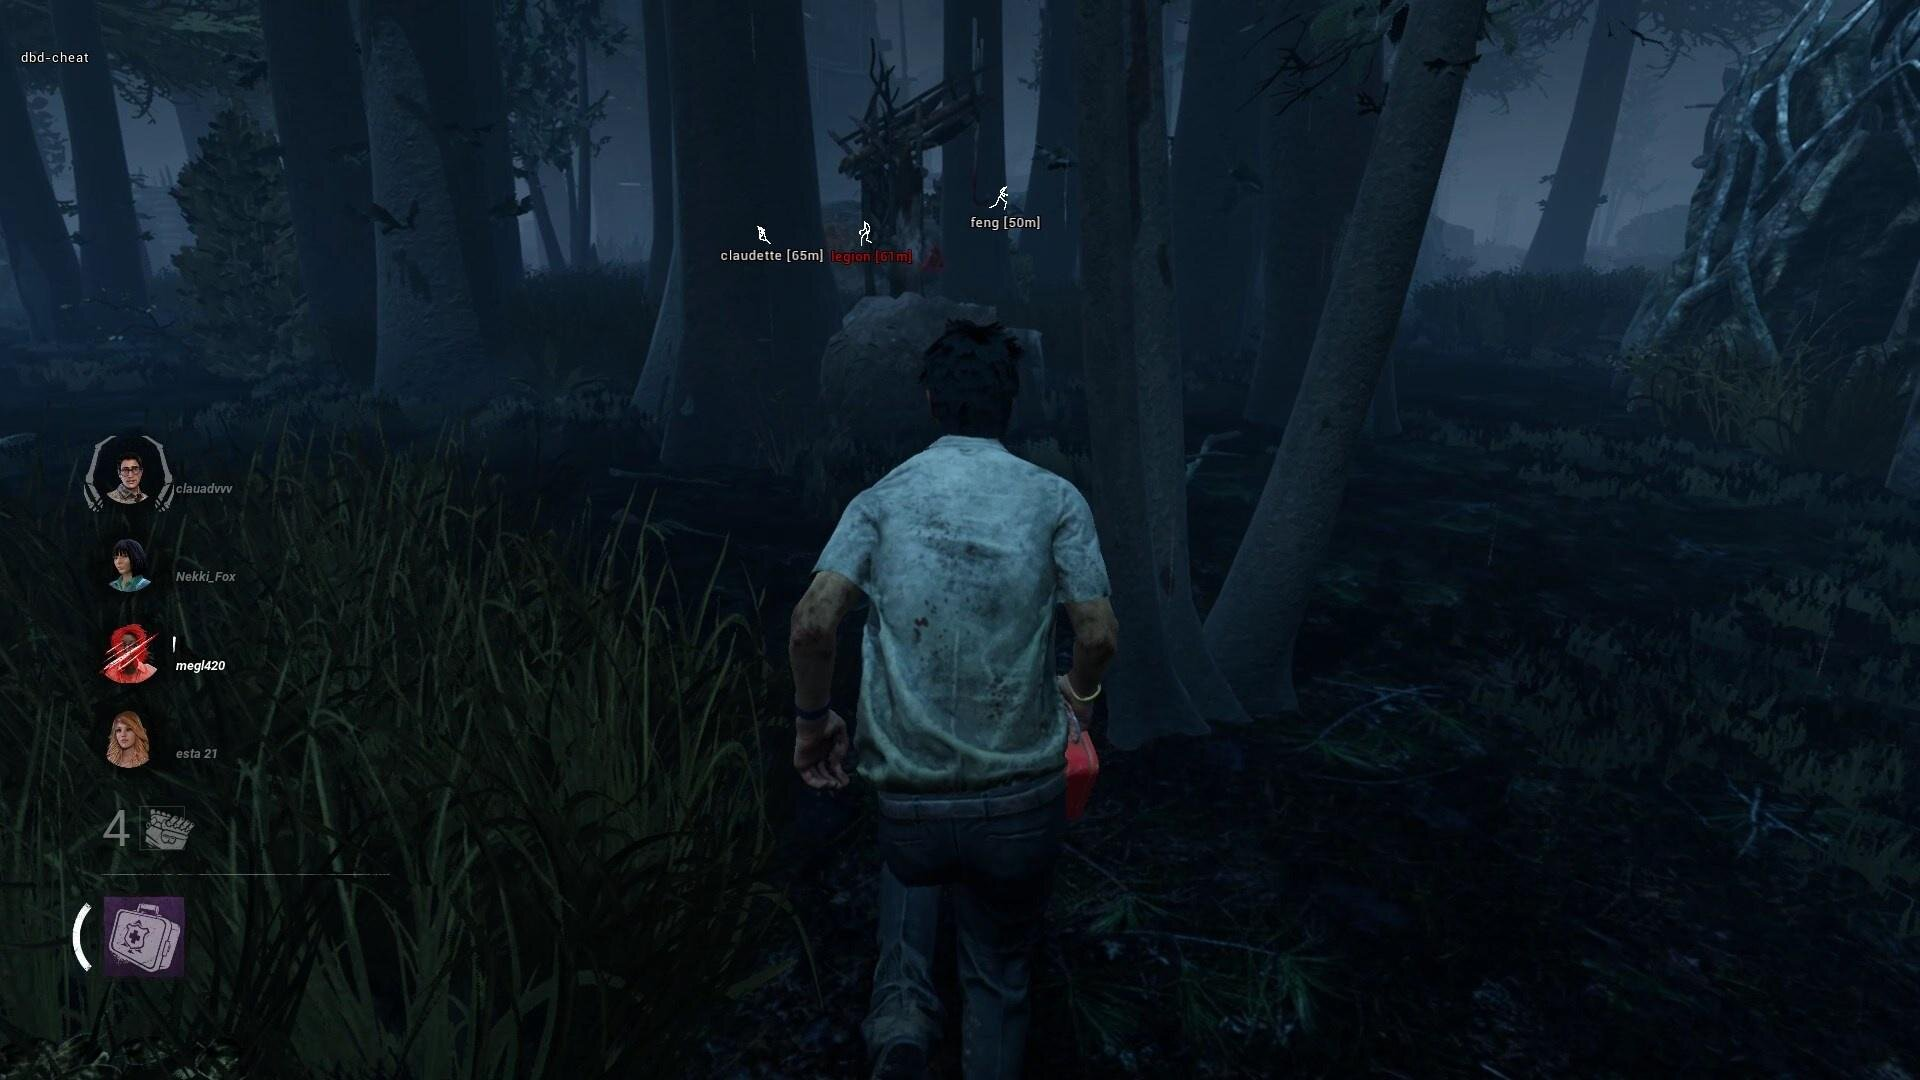
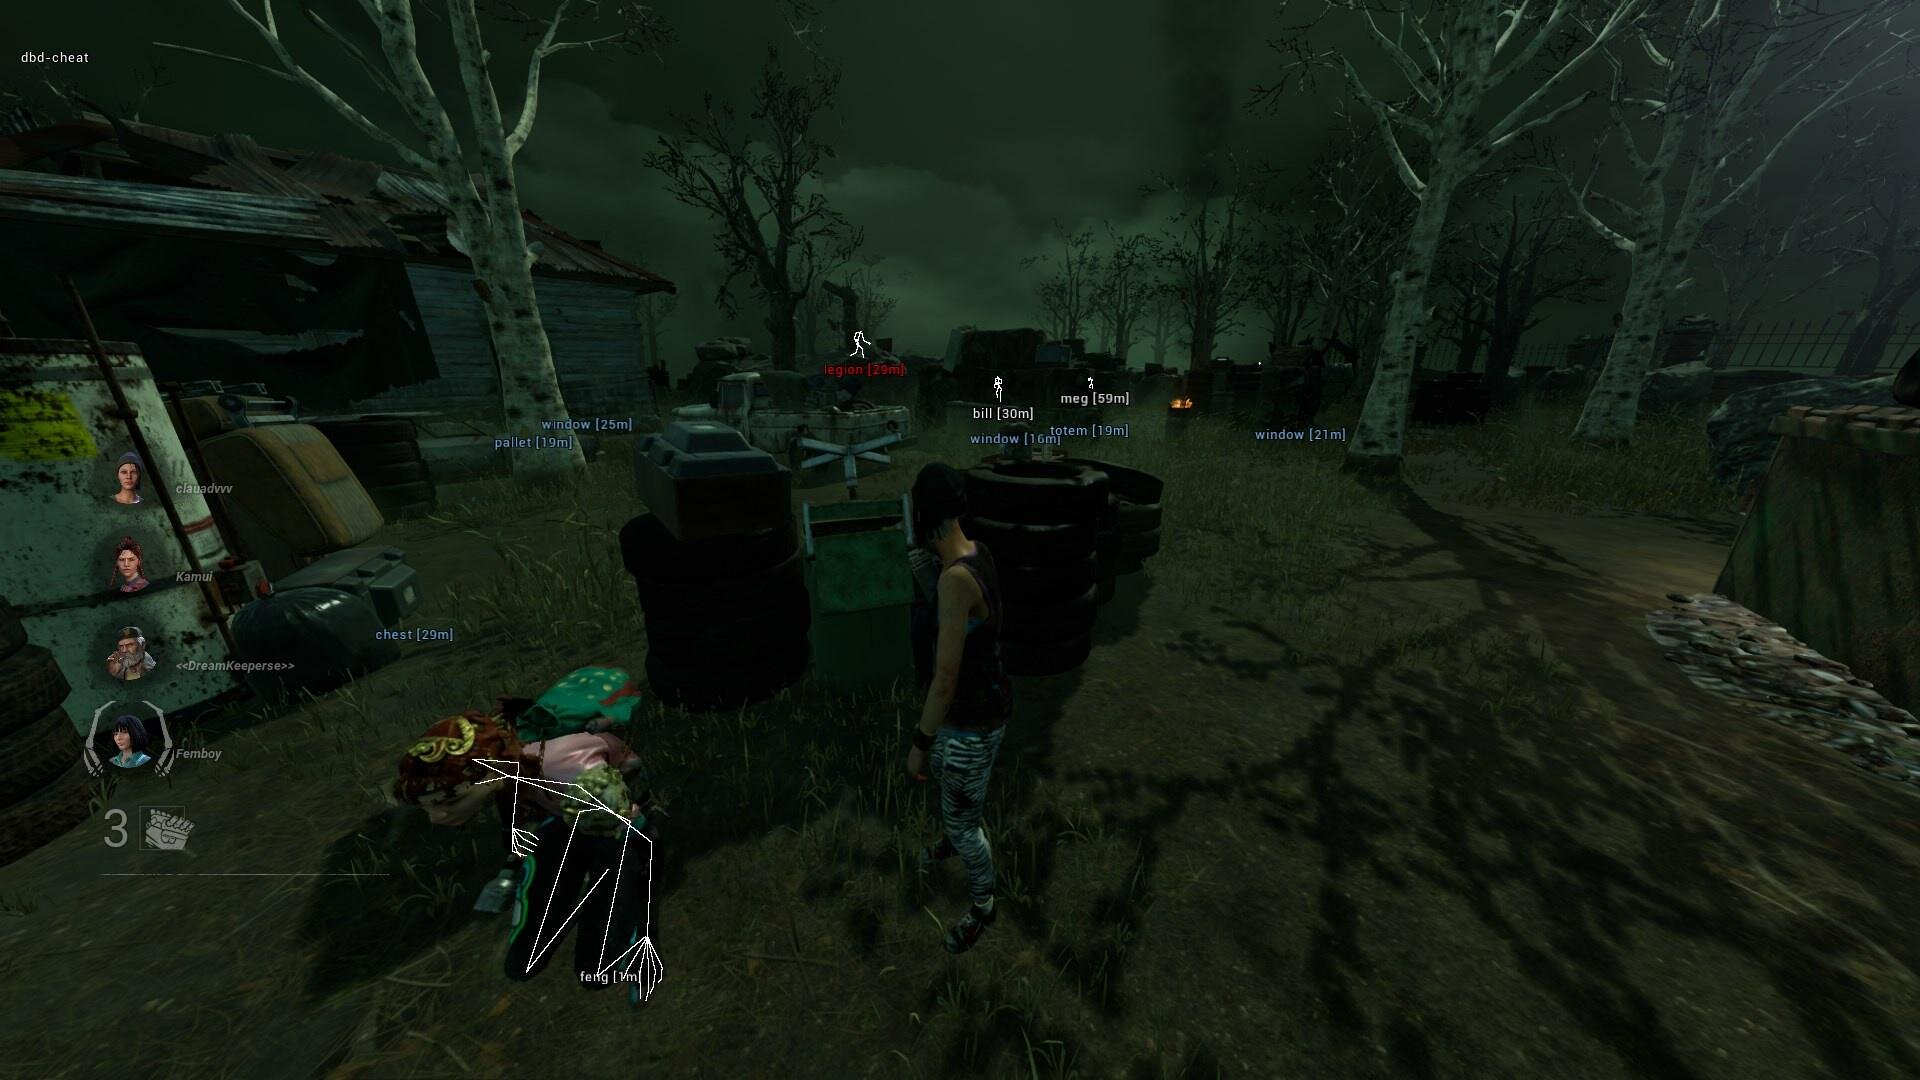
added new image & readme

diff --git a/readme.md b/readme.md
@@ -1,7 +1,57 @@
 # dbd-cheat
-internal cheat for dead by daylight with esp features
-<br>
+internal cheat for dead by daylight with the following features:
+
+survivor esp
+- character name
+- distance
+- skeleton
+
+killer esp
+- character name
+- distance
+- skeleton
+
+generator esp
+- name
+- distance
+- state (repaired/blocked)
+
+pallet esp
+- name
+- distance
+- state (fallen/destroyed/illusionary)
+
+chest esp
+- name
+- distance
+- state (searched)
+
+escape door esp
+- name
+- distance
+
+window esp
+- name
+- distance
+- state (blocked)
+
+totem esp
+- name
+- distance
+- state (cleansed/hex/boon)
+
+hatch esp
+- name
+- distance
+- state (hidden/closed/opened)
+
+bear trap esp
+- name
+- distance
+
+## note
+* you will still need an eac bypass to use this cheat so please don't message me about that
 
 **gameplay video**
 
-[<img src="https://raw.githubusercontent.com/clauadv/dbd-cheat/master/img.jpg">](https://youtu.be/B0BL1gW6E44)
+[<img src="https://raw.githubusercontent.com/clauadv/dbd-cheat/master/img.jpg">](https://youtu.be/V5A2ca2EcNg)
